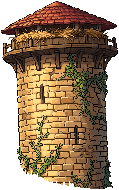
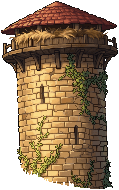
Scène du Château : bâtiments plus doux, les quatre niveaux de la guilde
Les bâtiments « croustillants » repeints plus doux (PixelLab « retoucher », choix de l'utilisateur) : la Tour des
griffons, le marché, les écuries (plus lisibles, des chevaux aux stalles). La guilde des mages grandit d'un niveau à
l'autre : sa tour plus douce, coupée de tronçons de pierre au niveau 1, 2 et 3 (le pied et le toit gardés), entière au
niveau 4 ; ses niveaux à la place de la guilde 1 (MEME_PLACE). Seul le chantier naval reste à dessiner.

diff --git a/tests/HoMM.Core.Tests/SceneVilleTests.cs b/tests/HoMM.Core.Tests/SceneVilleTests.cs
@@ -15,13 +15,10 @@ public class SceneVilleTests
         TownScene.FromJson(File.ReadAllText(Path.Combine(Folder(faction), "scene.json")));
 
     /// <summary>
-    /// Les bâtiments du Château pas encore dessinés : ils prennent l'image de celui qu'ils remplacent (les guildes 2 à 4,
-    /// celle de la guilde 1), sauf le chantier naval, pas encore montré. À retirer de la liste une fois dessinés.
+    /// Les bâtiments du Château pas encore dessinés : le chantier naval, pas encore montré. À retirer de la liste une fois
+    /// dessinés.
     /// </summary>
-    private static readonly string[] CastleNotDrawn =
-    {
-        "guilde-mages-2", "guilde-mages-3", "guilde-mages-4", "chantier-naval",
-    };
+    private static readonly string[] CastleNotDrawn = { "chantier-naval" };
 
     [Fact]
     public void La_scene_du_Chateau_couvre_ses_batiments()
@@ -65,7 +62,9 @@ public class SceneVilleTests
     [Fact]
     public void Un_batiment_pas_encore_dessine_prend_l_image_de_celui_qu_il_remplace()
     {
-        var scene = Scene("chateau");
+        // la scène du Château sans les guildes 2 et 3 : la guilde 3 prend l'image de la guilde 1
+        var full = Scene("chateau");
+        var scene = new TownScene(full.Width, full.Height, full.Places.Where(p => p.Id is not ("guilde-mages-2" or "guilde-mages-3")));
         var buildings = TestData.Data.Buildings.OfFaction("chateau").ToList();
         var shown = scene.Shown(Chain(buildings, buildings.Single(b => b.Id == "guilde-mages-3"))).ToList();
         var (building, place) = Assert.Single(shown);

diff --git a/tools/art/ville_scene.py b/tools/art/ville_scene.py
@@ -46,7 +46,8 @@ def bande(im):
 
 # les étapes d'un bâtiment peintes à la même place, sans maquette à elles (peints/<id>.png, à la taille de la première) :
 # la place, les masques, l'ombre et le décor de devant sont ceux de la première
-MEME_PLACE = {"hotel-ville": "salle-village", "grand-hotel-ville": "salle-village", "capitole": "salle-village"}
+MEME_PLACE = {"hotel-ville": "salle-village", "grand-hotel-ville": "salle-village", "capitole": "salle-village",
+              "guilde-mages-2": "guilde-mages-1", "guilde-mages-3": "guilde-mages-1", "guilde-mages-4": "guilde-mages-1"}
 
 # les bâtiments dont le pied coupé par la colline finit en touffes (sur d'autres, elles mangeaient des détails peints :
 # les bouteilles sous l'étal du marché)
